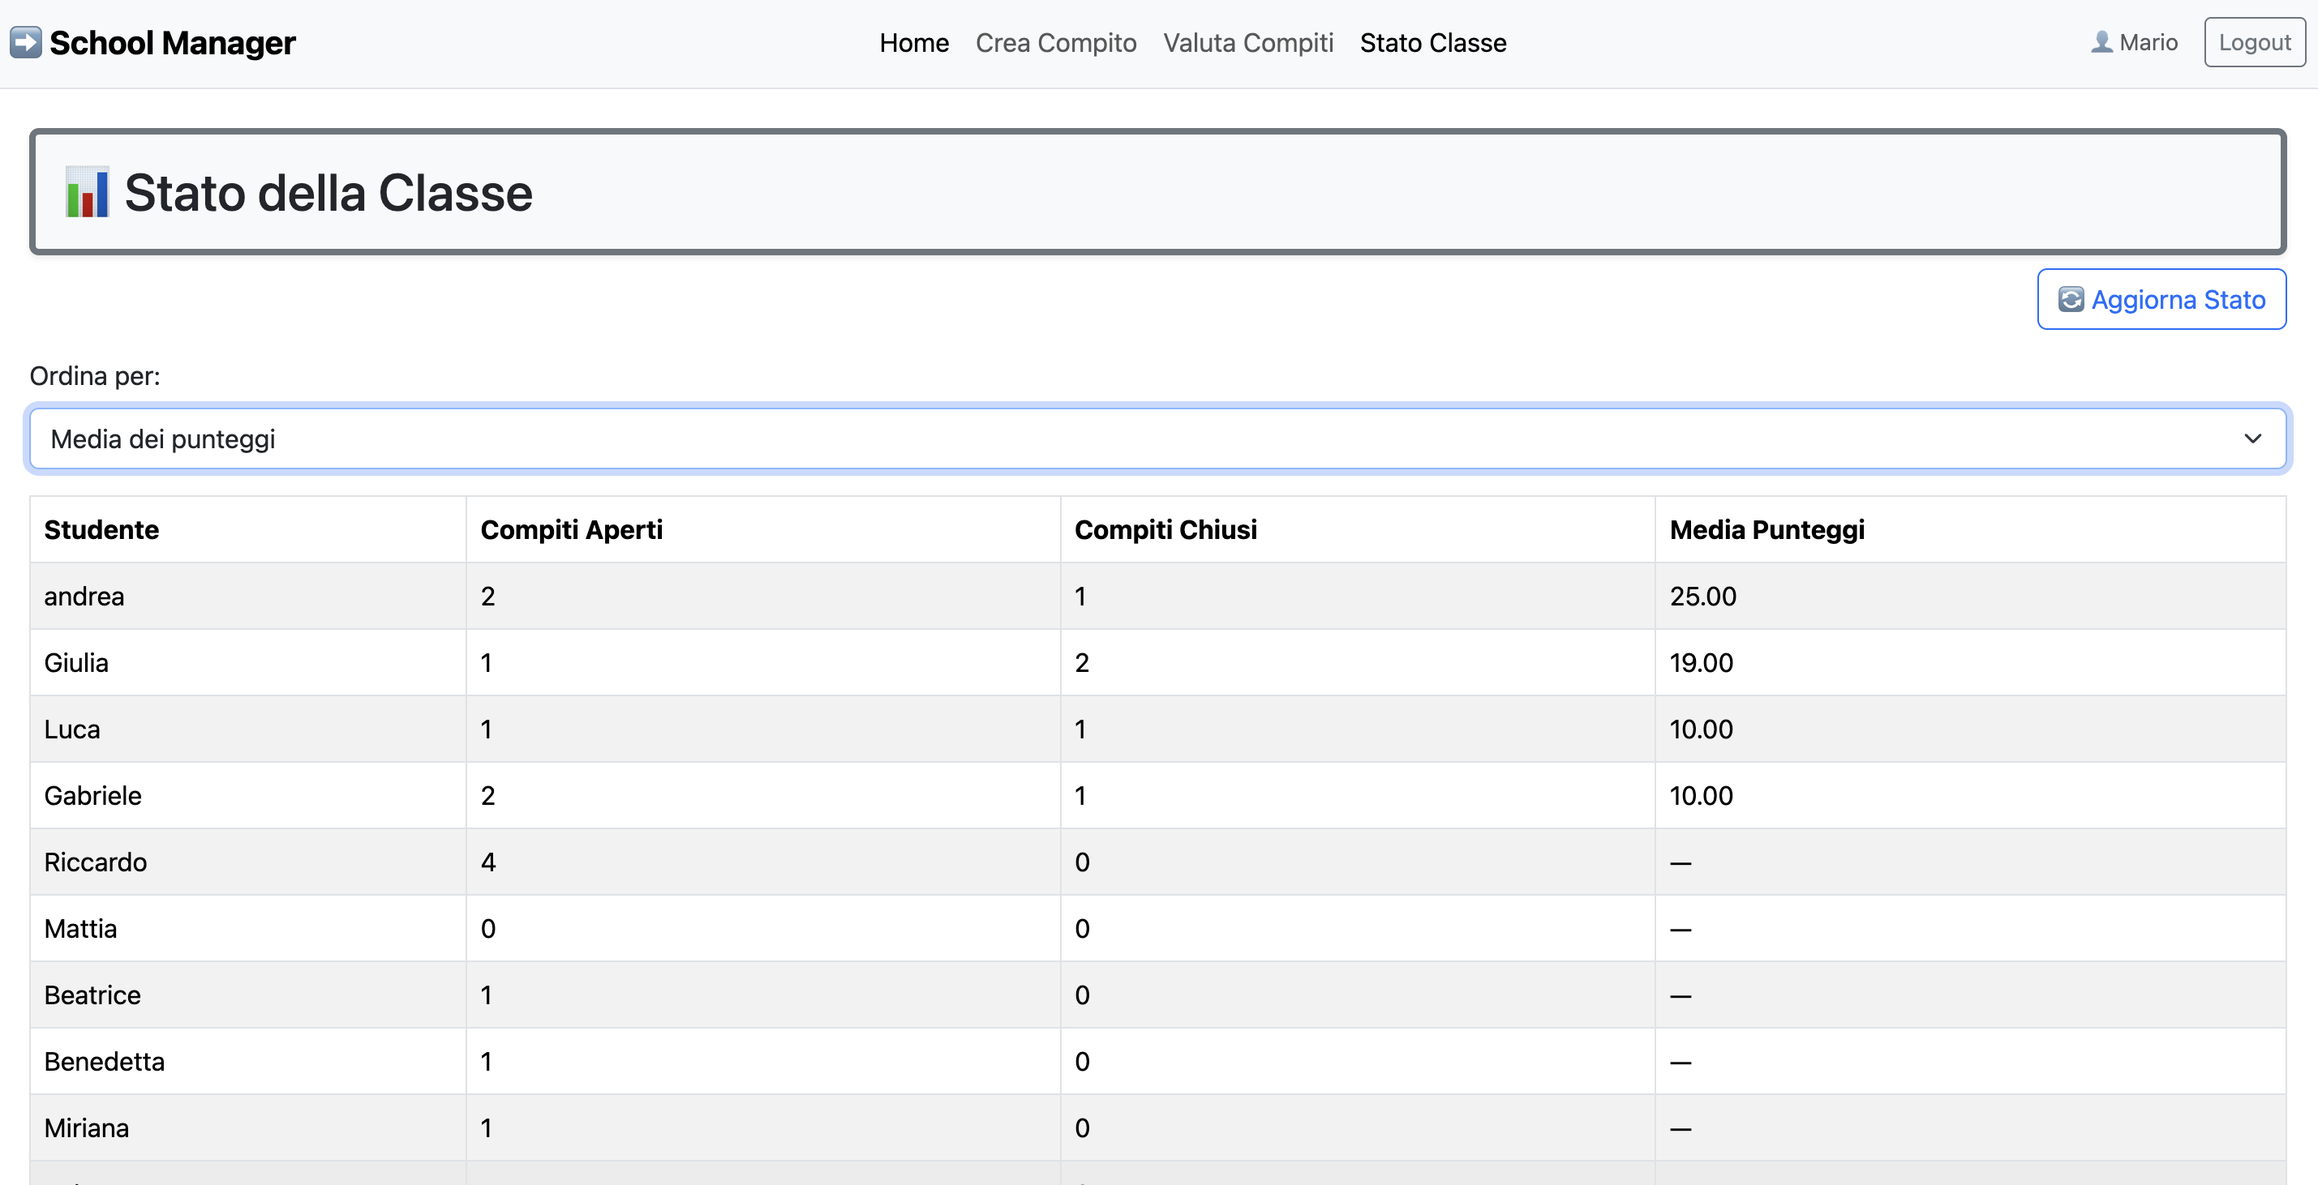
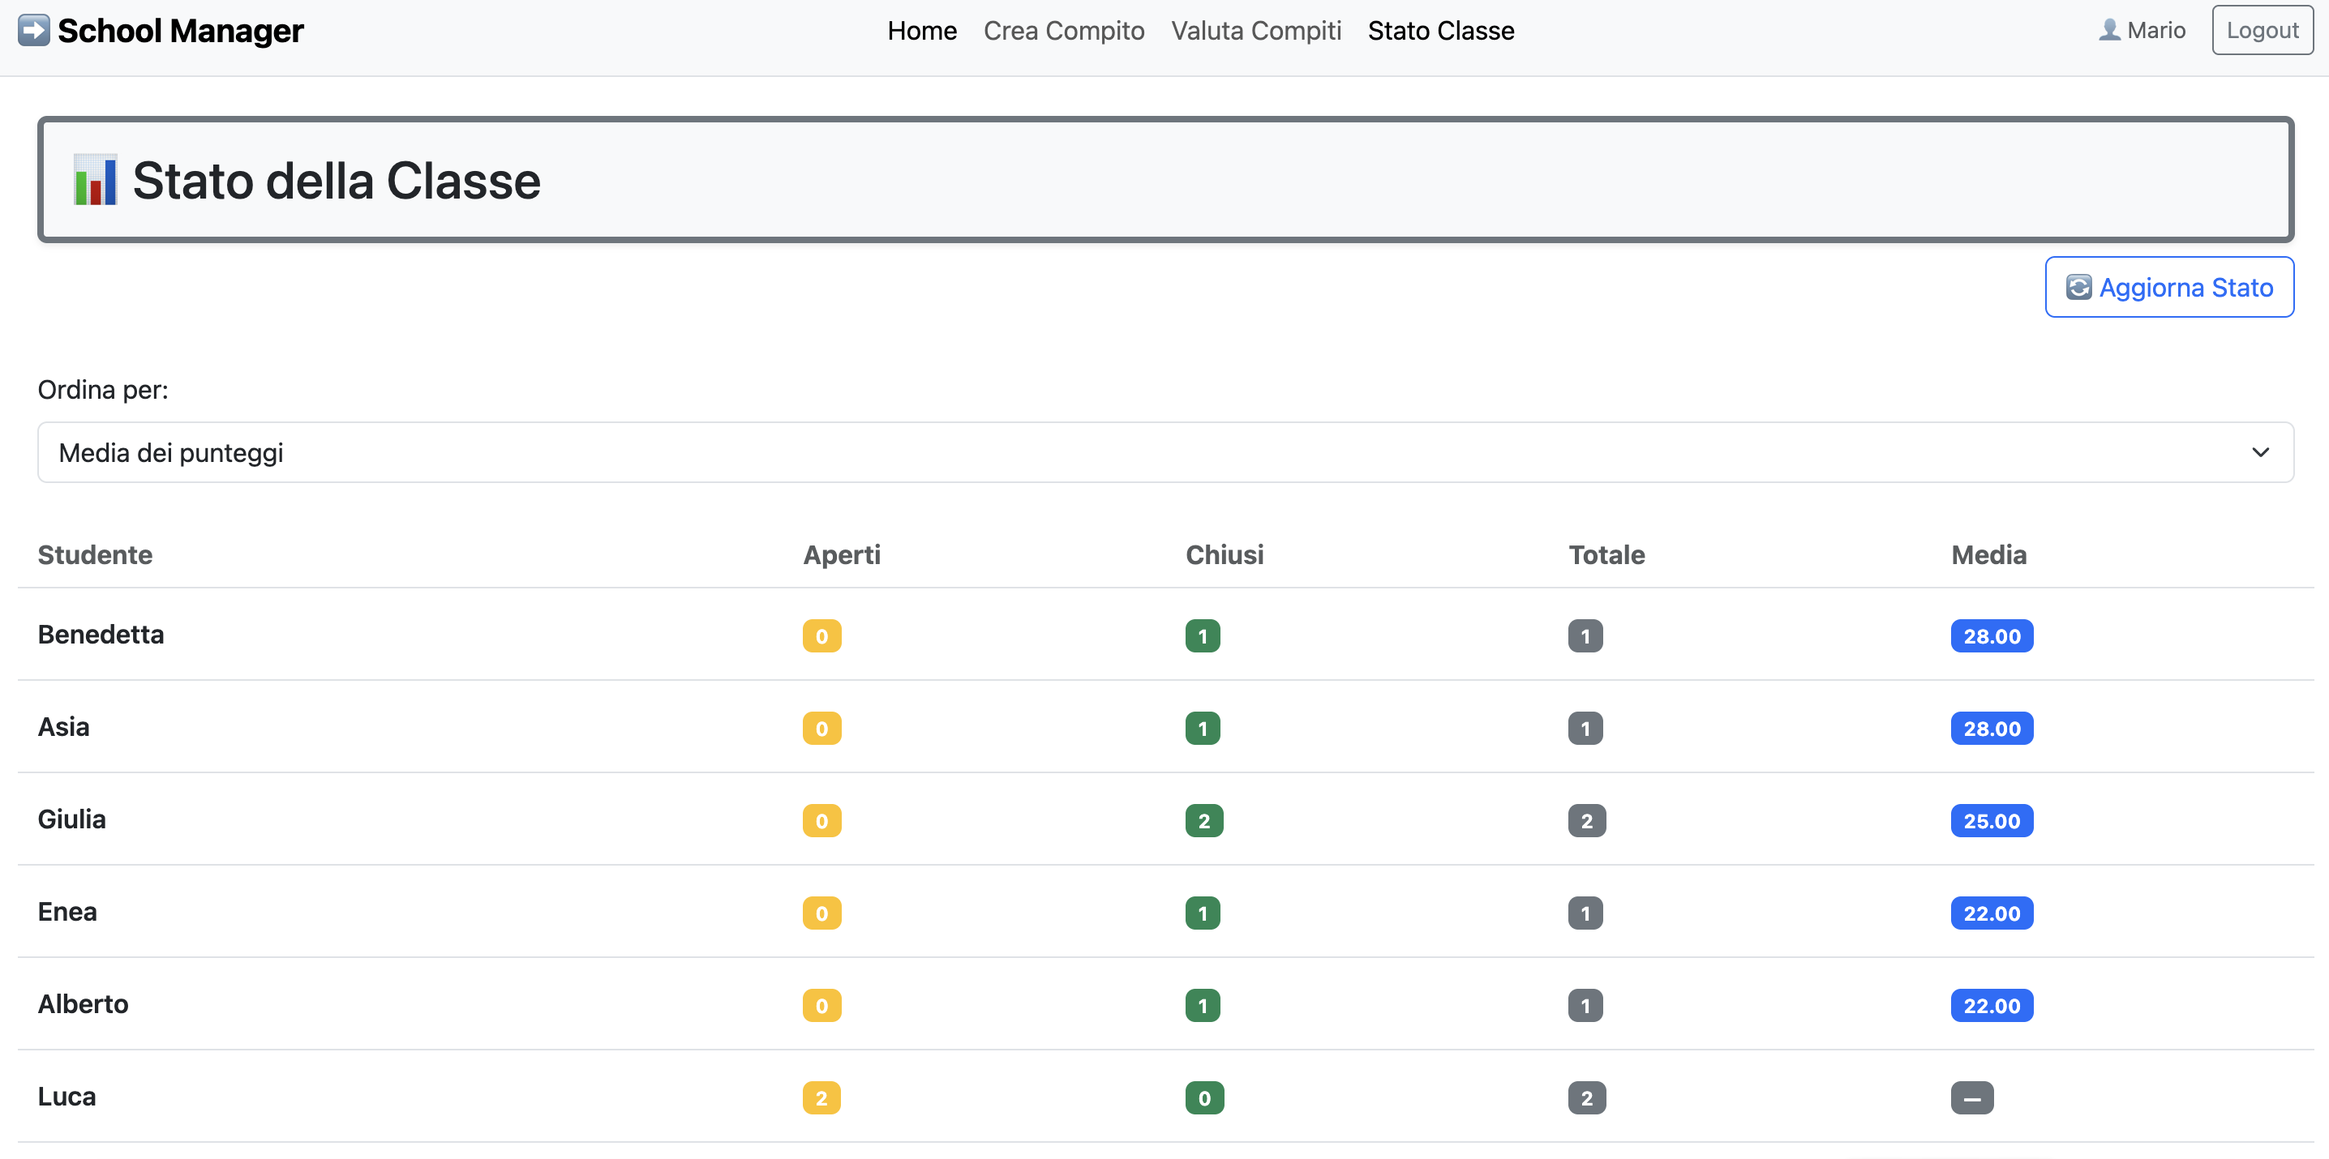
Ultime modifiche

diff --git a/client/src/components/SchoolManager.jsx b/client/src/components/SchoolManager.jsx
@@ -101,7 +101,6 @@ function SchoolManager() {
               <HomePage
                 user={user}
                 onLogin={doLogin}
-                onLogout={doLogout}
                 message={loginMessage}
                 clearMessage={setLoginMessage}
               />
@@ -109,15 +108,14 @@ function SchoolManager() {
           }
         />
 
-
-        {/* Layout protetto con navbar */}
+        {/* Layout protetto + navbar */}
         <Route element={<DefaultLayout user={user} onLogout={doLogout} />}>
           {/* Area Docente */}
           <Route
             path="/teacher"
             element={
               user?.role === 'teacher' ? (
-                <TeacherHome user={user} onLogout={doLogout} />
+                <TeacherHome user={user}/>
               ) : (
                 <Navigate to="/" />
               )
@@ -127,7 +125,7 @@ function SchoolManager() {
             path="/teacher/nuovo-compito"
             element={
               user?.role === 'teacher' ? (
-                <NuovoCompito user={user} onLogout={doLogout} />
+                <NuovoCompito/>
               ) : (
                 <Navigate to="/" />
               )
@@ -137,7 +135,7 @@ function SchoolManager() {
             path="/teacher/valuta-compiti"
             element={
               user?.role === 'teacher' ? (
-                <ValutaCompito user={user} onLogout={doLogout} />
+                <ValutaCompito/>
               ) : (
                 <Navigate to="/" />
               )
@@ -147,7 +145,7 @@ function SchoolManager() {
             path="/teacher/stato-classe"
             element={
               user?.role === 'teacher' ? (
-                <StatoClasse user={user} onLogout={doLogout} />
+                <StatoClasse/>
               ) : (
                 <Navigate to="/" />
               )
@@ -159,7 +157,7 @@ function SchoolManager() {
             path="/student"
             element={
               user?.role === 'student' ? (
-                <StudentHome user={user} onLogout={doLogout} />
+                <StudentHome user={user}/>
               ) : (
                 <Navigate to="/" />
               )
@@ -169,7 +167,7 @@ function SchoolManager() {
             path="/student/compiti"
             element={
               user?.role === 'student' ? (
-                <CompitiAssegnati user={user} onLogout={doLogout} />
+                <CompitiAssegnati user={user}/>
               ) : (
                 <Navigate to="/" />
               )
@@ -179,7 +177,7 @@ function SchoolManager() {
             path="/student/punteggi"
             element={
               user?.role === 'student' ? (
-                <PunteggiStudent user={user} onLogout={doLogout} />
+                <PunteggiStudent/>
               ) : (
                 <Navigate to="/" />
               )

diff --git a/client/src/pages/Teacher/StatoClasse.jsx b/client/src/pages/Teacher/StatoClasse.jsx
@@ -1,6 +1,6 @@
 import { useEffect, useState } from 'react';
 import API from '../../api/API.mjs';
-import { Table, Alert, Form } from 'react-bootstrap';
+import { Alert, Form, Row, Col, Badge, Card } from 'react-bootstrap';
 import CustomContainer from '../../components/common/CustomContainer';
 import RefreshButton from '../../components/common/RefreshButton';
 import PageHeader from '../../components/common/PageHeader';
@@ -35,11 +35,11 @@ function StatoClasse() {
     <CustomContainer>
       <PageHeader title="Stato della Classe" icon="📊" />
 
-      <div className="d-flex justify-content-end">
+      <div className="d-flex justify-content-end mb-3">
         <RefreshButton onClick={fetchStats} label="Aggiorna Stato" />
       </div>
 
-      <Form.Group className="mb-3" controlId="ordinamento">
+      <Form.Group className="mb-4" controlId="ordinamento">
         <Form.Label>Ordina per:</Form.Label>
         <Form.Select value={ordinamento} onChange={(e) => setOrdinamento(e.target.value)}>
           <option value="nome">Nome</option>
@@ -50,28 +50,33 @@ function StatoClasse() {
 
       {errore && <Alert variant="danger">{errore}</Alert>}
 
-      <Table striped bordered hover responsive>
-        <thead>
-          <tr>
-            <th>Studente</th>
-            <th>Compiti Aperti</th>
-            <th>Compiti Chiusi</th>
-            <th>Media Punteggi</th>
-          </tr>
-        </thead>
-        <tbody>
-          {studentiOrdinati.map((s) => (
-            <tr key={s.id}>
-              <td>{s.name}</td>
-              <td>{s.aperti}</td>
-              <td>{s.chiusi}</td>
-              <td>{s.media?.toFixed(2) ?? '—'}</td>
-            </tr>
-          ))}
-        </tbody>
-      </Table>
+      {/* Intestazione */}
+      <Row className="fw-bold py-2 border-bottom text-muted">
+        <Col xs={12} md={4}>Studente</Col>
+        <Col xs={6} md={2}>Aperti</Col>
+        <Col xs={6} md={2}>Chiusi</Col>
+        <Col xs={6} md={2}>Totale</Col>
+        <Col xs={6} md={2}>Media</Col>
+      </Row>
+
+      {studentiOrdinati.map((s) => (
+        <Row key={s.id} className="py-3 border-bottom align-items-center">
+          <Col xs={12} md={4} className="fw-semibold">{s.name}</Col>
+          <Col xs={6} md={2}><Badge bg="warning">{s.aperti}</Badge></Col>
+          <Col xs={6} md={2}><Badge bg="success">{s.chiusi}</Badge></Col>
+          <Col xs={6} md={2}><Badge bg="secondary">{s.aperti + s.chiusi}</Badge></Col>
+          <Col xs={6} md={2}>
+            {s.media !== null ? (
+              <Badge bg="primary">{s.media.toFixed(2)}</Badge>
+            ) : (
+              <Badge bg="secondary">—</Badge>
+            )}
+          </Col>
+        </Row>
+      ))}
     </CustomContainer>
   );
 }
 
 export default StatoClasse;
+

diff --git a/client/src/pages/Teacher/NuovoCompito.jsx b/client/src/pages/Teacher/NuovoCompito.jsx
@@ -26,19 +26,14 @@ function NuovoCompito() {
   }, []);
 
   useEffect(() => {
-    if (errore) {
-      const timer = setTimeout(() => setErrore(''), 3000);
-      return () => clearTimeout(timer);
-    }
-  }, [errore]);
-
-  useEffect(() => {
-  if (successo) {
-    const timer = setTimeout(() => setSuccesso(''), 3000);
+  if (errore || successo) {
+    const timer = setTimeout(() => {
+      setErrore('');
+      setSuccesso('');
+    }, 3000);
     return () => clearTimeout(timer);
   }
-}, [successo]);
-
+}, [errore, successo]);
 
   const toggleSelezione = (id) => {
     setStudentiSelezionati(prev =>
@@ -47,7 +42,7 @@ function NuovoCompito() {
   };
 
   const handleSubmit = async (e) => {
-    e.preventDefault();
+    e.preventDefault(); //Per impedire il refresh automatico
     setErrore('');
     if (studentiSelezionati.length < 2 || studentiSelezionati.length > 6) {
       setErrore('Un gruppo deve avere da 2 a 6 studenti.');

diff --git a/client/src/pages/Student/CompitiAssegnati.jsx b/client/src/pages/Student/CompitiAssegnati.jsx
@@ -17,6 +17,7 @@ function CompitiAssegnati({ user }) {
       const dati = await API.getCompitiAssegnati();
       setCompiti(dati);
 
+      //Per aggiornare il box risposta quando altri studenti rispondono
       const nuoveRisposte = {};
       dati.forEach(c => {
         if (c.risposta) {

diff --git a/server/db/cleanup.js b/server/db/cleanup.js
@@ -1,6 +1,5 @@
 const sqlite3 = require('sqlite3').verbose();
 
-// Sostituisci 'database.sqlite' con il percorso corretto del tuo DB
 const db = new sqlite3.Database('./db/database.db', (err) => {
   if (err) {
     return console.error('Errore di connessione:', err.message);

diff --git a/README.md b/README.md
@@ -8,12 +8,14 @@
 | ------------------------- | ------------------------------------------------------------------------------------------------------------------------------------------------------------------------------------------------------------------------------------------------------------------- |
 | `/`                       | **Entry Point** dell’applicazione. Gli utenti devono autenticarsi per accedere alle funzionalità dell'app.                                                                                                                                                          |
 | `/teacher`                | Pagina riservata ai docenti. Visualizza le regole di utilizzo del proprio account.                                                                                                                                                                                  |
-| `/teacher/nuovo-compito`  | Permette al docente di **assegnare un nuovo compito** a un gruppo di studenti. Include un menù a tendina per la selezione e un form per la descrizione del compito. Le restrizioni sul gruppo (2-6 studenti, massimo 2 compiti in comune) sono gestite lato server. |
+| `/teacher/nuovo-compito`  | Permette al docente di **assegnare un nuovo compito** a un gruppo di studenti. Include un menù a tendina per la selezione e un form per la descrizione del compito|
 | `/teacher/valuta-compiti` | Il docente può **valutare compiti aperti** per i quali è stata inviata almeno una risposta. Il voto è un intero tra 0 e 30. Dopo la valutazione, il compito diventa “chiuso” e non è più modificabile.                                                              |
 | `/teacher/stato-classe`   | Il docente visualizza **statistiche sui propri studenti**: compiti aperti/chiusi, media dei voti. I dati sono ordinabili per nome, media o numero totale di compiti.                                                                                                |
 | `/student`                | Pagina informativa con le regole di utilizzo dell’account per gli studenti.                                                                                                                                                                                         |
 | `/student/compiti`        | Mostra agli studenti i **compiti aperti** a cui partecipano. Possono inviare o modificare una risposta finché il compito non è valutato.                                                                                                                            |
 | `/student/punteggi`       | Lo studente può vedere i **punteggi ricevuti** e una **media ponderata** dei voti. Il peso di ciascun voto è inversamente proporzionale al numero di membri del gruppo.                                                                                             |
+| `*`                        | Pagina di errore **404 - Not Found**. Mostrata quando l’utente visita una route non esistente. Se l’utente è autenticato, viene offerto un pulsante per tornare alla sua **home personale** (studente o docente).                                           |
+
 
 
 
@@ -106,7 +108,7 @@
   Restituisce la lista dei compiti **aperti** a cui partecipa lo studente autenticato.
 
 - **Request body**:  
-  _Nessun contenuto richiesto._
+  _none_
 
 - **Response**:
   - **Status code**: `200 OK`
@@ -459,7 +461,7 @@ Rappresenta l’associazione molti-a-molti tra compiti e studenti.
 
 ## Main React Components
 
-- `CompitoCard` (in `Student/CompitoCard.jsx`): 
+- `CompitoCard` (in `components/Student/CompitoCard.jsx`): 
   Rappresenta un singolo compito assegnato allo studente, mostrando la domanda e se il compito è ancora aperto, viene mostrato un campo per inserire o modificare la risposta
    - Visualizza una singola domanda di compito assegnato allo studente
    - Mostra la risposta esistente(se presente) oppure un campo per scriverla o modificarla, se il compito è ancora paerto
@@ -467,40 +469,82 @@ Rappresenta l’associazione molti-a-molti tra compiti e studenti.
    - Permette l'invio della risposta tramite il bottone, usando la callback onInvio
    - Quando il compito viene chiuso, il contenuto diventa read-only
 
-- `CompitoDaValutare` (in `Teacher/CompitoDaValutare.jsx`):
+- `CompitoDaValutare` (in `components/Teacher/CompitoDaValutare.jsx`):
   Visualizza un compito creato dal docente, con relativa domanda e risposta degli studenti. Se il compito è ancora aperto, permette di inserire ed inviare una valutazione.
    - Visualizzare la domanda e la risposta di un compito assegnato 
    - Mostrare un campo di valutazione numerica(0-30) se il compito è aperto e la risposta è presente
    - Comunicare al genitore il punteggio inserito tramite la callback onChangeValutazione
    - Permette l'invio della valutazione tramite la callback onValuta, associata al bottone "valuta"
    - Mostrare un punteggio assegnato se il compito è stato già valutato
-- `CompitoForm` (in `Teacher/CompitoForm.jsx`): 
+- `CompitoForm` (in `components/Teacher/CompitoForm.jsx`): 
   Fornisce il modulo per la creazione di un nuovo compito da parte del docente
    - Mostra gli studenti selezionati sotto forma di badge
    - Comunica al genitore eventuali modifiche alla domanda tramite la callback onDomandaChange
    - Gestisce l'invio del form tramite la callback onSubmit
    - Visualizza messaggi di errore/successo
-- `SelezioneStudenti` (in `Teacher/ SelezionaStudenti.jsx`):
+- `SelezioneStudenti` (in `components/Teacher/ SelezionaStudenti.jsx`):
   Permette di selezionare un gruppo di studenti da una lista
    - Evidenzia graficamente gli studenti selezionati
    - Gestisce la selezione/deselezione tramite callback(onToggle) senza mantere stato interno
-- `AppNavbar` (in `common/AppNavbar.jsx`)
+- `AppNavbar` (in `components/common/AppNavbar.jsx`)
   Visualizza la barra di navigazione principale dell’applicazione, adattando il menu in base al ruolo dell’utente (studente o docente) e mostrando il nome utente con opzione di logout
    - Fornisce una navigazione coerente in base all'utente autenticato
    - Visualizza il nome dell'utente loggato
    - Offre un bottone per il logout
-- `Login` (in `Login.jsx`):
+- `Login` (in `components/Login.jsx`):
   Gestisce il modulo di autenticazione iniziale per studenti e docenti, permettendo di inserire le credenziali di accesso(email e password)
    - Visualizza il campo form con campo email e password
    - Alla pressione del bottone "Accedi" invoca onLogin(email,password)
    - Mostra un eventuale messaggio di errore
-- `SchoolManager` (in `SchoolManager.jsx`):
+- `SchoolManager` (in `components/SchoolManager.jsx`):
   Gestisce l'intera logica dell'applicazione dopo l'avvio, coordinando autenticazione, routing, layout e navigazione protetta per docenti e studenti.
   - Esegue un controllo iniziale di autenticazione e ripristina la sessione
   - Imposta le route protette per studenti e docenti
   - Redirect automatico in base al ruolo
   - Layout condiviso con Navbar(defaultLayout)
   - Pagina iniziale HomePage e pagina di errore PageNotFound
+
+- `CompitiAssegnati` (in `pages/Student/CompitiAssegnati.jsx`):
+  Pagina principale per lo studente, mostra l'elenco dei compiti aperti assegnati.  
+  - Recupera l'elenco dei compiti da un'API e gestisce il relativo stato.  
+  - Mostra messaggi di errore/successo.  
+  - Permette allo studente di scrivere, modificare e inviare la risposta.  
+  - Mostra una lista di `CompitoCard`, una per ogni compito aperto.
+- `PunteggiStudent` (in `pages/Student/PunteggiStudent.jsx`):
+  Pagina per visualizzare i punteggi ricevuti dallo studente e la media ponderata finale.   
+  - Recupera da API l’elenco dei compiti chiusi con i relativi punteggi.  
+  - Mostra ogni compito valutato con la domanda e il punteggio ricevuto.  
+  - Calcola e visualizza la media ponderata dei punteggi.  
+  - Gestisce errori nel caricamento e fornisce un pulsante per aggiornare i dati.
+- `NuovoCompito` (in `pages/Teacher/NuovoCompito.jsx`):  
+  Pagina dedicata ai docenti per creare un nuovo compito.   
+  - Recupera l’elenco completo degli studenti dal backend.  
+  - Gestisce la selezione dinamica di un gruppo (tra 2 e 6 studenti) evitando gruppi non validi.  
+  - Mostra messaggi di errore/successo e invia il nuovo compito alle API.  
+  - Integra i componenti `CompitoForm` e `SelezionaStudenti`.
+- `StatoClasse` (in `pages/Teacher/StatoClasse.jsx`)  
+  Pagina per il docente che mostra lo stato complessivo della classe in termini di compiti e punteggi.  
+  - Recupera i dati aggregati degli studenti (compiti aperti, chiusi, media) tramite API.  
+  - Mostra una tabella interattiva ordinabile per nome, numero totale di compiti o media voti.  
+  - Gestisce errori di caricamento e offre un pulsante di aggiornamento.
+- `ValutaCompito` (in `pages/Teacher/ValutaCompito.jsx`)  
+  Pagina per il docente per valutare i compiti creati.  
+  - Recupera l’elenco dei compiti creati dal docente.  
+  - Mostra ogni compito con eventuale risposta fornita dal gruppo.  
+  - Permette di inserire una valutazione (0–30) e inviarla tramite API.  
+  - Mostra messaggi di errore e conferma; aggiorna lo stato del compito a “chiuso”.
+- `HomePage` (in `pages/Home.jsx`)  
+  Pagina iniziale dell’applicazione, visibile solo se l’utente non è autenticato.  
+  - Mostra informazioni sulle funzionalità della piattaforma.  
+  - Include il modulo di login per accedere come studente o docente.  
+  - Una volta autenticato, l’utente viene reindirizzato alla propria area personale.
+- `PageNotFound` (in `pages/PageNotFound.jsx`)  
+  Pagina di errore mostrata quando l’utente visita una route non valida.  
+  - Recupera il ruolo dell’utente autenticato, se presente.  
+  - Visualizza un messaggio “404 – Pagina non trovata”.  
+  - Mostra un pulsante per tornare alla home corretta in base al ruolo (student o teacher).
+
+
 ## Screenshot
 
   `Crea Compito`
@@ -541,4 +585,10 @@ Rappresenta l’associazione molti-a-molti tra compiti e studenti.
     - email: sandro@exam.com
     - password: p456
     - role: student
+  
+- Contenuto iniziale del database:
+  
+  Docente "mario@exam.com" ha chiesto a luca, gabriele e riccardo "Chi ha scoperto l'America?" Valutato
+
+  Docente "mario@exam.com" ha chiesto a giulia, beatrice e benedetta "Quanto fa 2+2?" Non valutato
 
